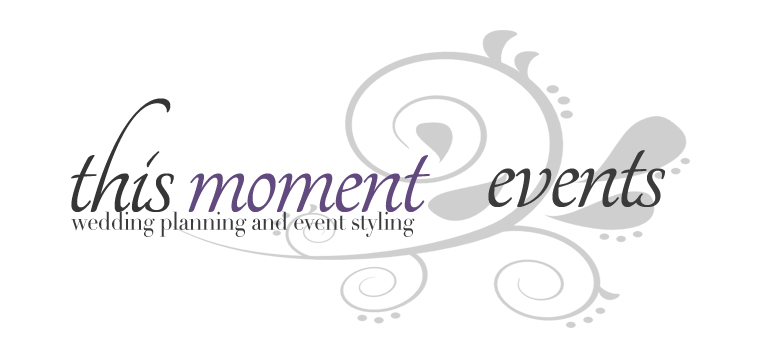
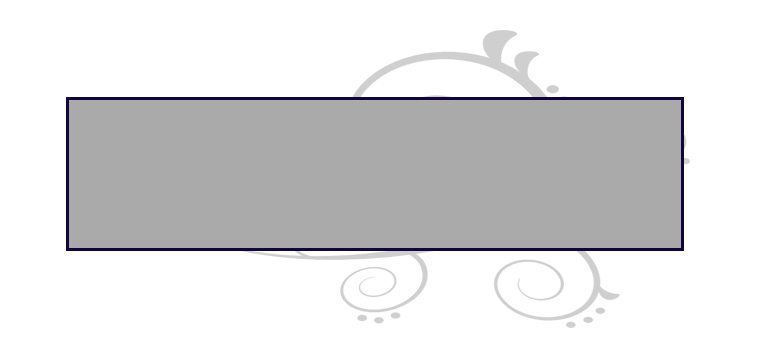
clear data

diff --git a/index.html b/index.html
@@ -337,7 +337,7 @@
   </tr>
 
   <tr>
-    <td class="bold">Jasmine Cianflone</td>
+    <td class="bold">XXXX XXXXX</td>
   </tr>
 
   <tr>
@@ -353,7 +353,7 @@
   </tr>
 
   <tr>
-    <td>jasmine@thismomentevents.com</td>
+    <td>XXXX@XXXXXXX.com</td>
   </tr>
 </tbody></table>
 <!-- HEADER INFORMATION to and from-->
@@ -363,7 +363,7 @@
       <span>Bill To:</span>
     </td>
     <td class="border-bottom bold">
-      <span>Joane Jasmin</span>
+      <span>XXX XXX</span>
     </td>
   </tr>
 
@@ -371,7 +371,7 @@
     <td class="border-bottom">
     </td>
     <td class="border-bottom">
-      <span>joane.jasmin87@gmail.com</span>
+      <span>XXX@gmail.com</span>
     </td>
   </tr>
   <tr>
@@ -379,7 +379,7 @@
       <span class="bold">Event:</span>
     </td>
     <td class="border-bottom">
-      <span class="bold">Joane Jasmin and David Lisma</span>
+      <span class="bold">Event Name</span>
     </td>
   </tr>
   <tr>
@@ -430,7 +430,7 @@
 <table class="pad-top ">
   <tbody><tr>
     <td class="main-file-title">
-      <h1 class="uppercase">Joane and David - Bespoke </h1>
+      <h1 class="uppercase">XXXXXXXXXXXXXXXXXXXXXXXX </h1>
     </td>
   </tr>
 </tbody></table>
@@ -455,7 +455,7 @@
 
       <tr>
         <td>Every Bliss Bespoke Day of Coordination Suite includes the following:
-Unlimited email + phone contact with Jasmine starting 8 weeks prior to your event date.
+Unlimited email + phone contact with XXX starting 8 weeks prior to your event date.
 Three planning meetings: Kickoff meeting, 8 Week Check-in, and Final Details meeting- in person
 4 Week Check-in Call.
 Access to our awesome online planning tools (Eliminates email clutter and keeps us all on track!). 
@@ -695,11 +695,11 @@ All in all, that gets you: A nice bundle of tied up loose ends, loads of peace o
       <tr class="">
         <td><div class="editor_header_region" contenteditable="false" id="editor_header_region">
             <ul class="header-info">
-              <li class="bold">Jasmine Cianflone</li>
-              <li>This Moment Events</li>
+              <li class="bold">XXX XXXX</li>
+              <li>XXX Events</li>
               <li>Event Planner</li>
               <li></li>
-              <li>jasmine@thismomentevents.com</li>
+              <li>XXX@XXX.com</li>
             </ul>
             <span class="half-a float-right">
                 <span class="">
@@ -711,7 +711,7 @@ All in all, that gets you: A nice bundle of tied up loose ends, loads of peace o
 
 <p style="text-align: center;">&nbsp;</p>
 
-<p>This Wedding Planning Service Agreement (herein the “Agreement”) is made the&nbsp;<u>Apr 25, 2015</u>&nbsp;by and between This Moment Events, LLC a New Jersey limited liability company (herein “Consultant”) and&nbsp;<u>Joane Jasmin</u> and<u>David Lisma</u>&nbsp;(herein jointly and severally referred to as “Clients,” and together with Consultant, the “Parties” and each a “Party”).</p>
+<p>This Wedding Planning Service Agreement (herein the “Agreement”) is made the&nbsp;<u>Apr 25, 2015</u>&nbsp;by and between This Moment Events, LLC a New Jersey limited liability company (herein “Consultant”) and&nbsp;<u>XXX XXXX</u> and<u>XXX XXXX</u>&nbsp;(herein jointly and severally referred to as “Clients,” and together with Consultant, the “Parties” and each a “Party”).</p>
 
 <p>WHEREAS Consultant is in the business of providing professional wedding planning, coordination and event styling services;</p>
 
@@ -747,7 +747,7 @@ Time:&nbsp;<u>12:30pm</u></p>
 	<li>This service suite includes the services of Consultant and Assistants for <u>Eight (8)</u> hours.&nbsp; Should need for additional hours become evident or requested on the day of the Wedding, Client shall be responsible for the additional cost of overtime hours, charged at the rate of one hundred and twenty five dollars ($125.00) per hour for the Consultant and fifty dollars ($50.00) per hour per Assistant.</li>
 </ul>
 
-<div class="editor_packages_region" contenteditable="false" id="editor_packages_region"><h3>Bespoke Bliss Day-of-Coordination</h3><strong>Every Bliss Bespoke Day of Coordination Suite includes the following:<br>Unlimited email + phone contact with Jasmine starting 8 weeks prior to your event date.<br>Three planning meetings: Kickoff meeting, 8 Week Check-in, and Final Details meeting- in person<br>4 Week Check-in Call.<br>Access to our awesome online planning tools (Eliminates email clutter and keeps us all on track!). <br>A dedicated day of planner and a minimum of one planner assistant.<br>Comprehensive Wedding Day Management.  <br>All in all, that gets you: A nice bundle of tied up loose ends, loads of peace of mind, and the best time you’ve ever had!</strong><ul></ul><ul><li><h3>8 Hours - Day of Management with with 2 Assistants</h3><span>For a guest count of approx. 170, single venue.</span></li></ul><h3>Paisley Wedding Planning Sessions</h3><strong>45 Minute planning sessions via phone, Skype or Facetime. Answer planning questions, provide guidance, advice and resources.</strong><ul></ul><ul><li><h3>6 Session Bundle</h3></li></ul><h3>Design &amp; Styling - Comprehensive </h3><strong>Top to bottom DIY design &amp; styling- research, sourcing, concept development, inspiration boards, color stories (digital or tangible), arrangement of execution, including vendor research, oversight of set up and tear down.</strong><ul></ul><ul><li><h3>Add On to Bespoke Bliss DOC</h3></li></ul><h3>Add On to Bespoke DOC </h3><ul></ul><ul><li><h3>Planning &amp; Coordination, Hourly - 5 Hours</h3><span>Hourly planning &amp; Coordination - tasks determined as needed. Used to research vendors, venues, and styling ideas, and coordinate additional wedding details.</span></li></ul><ul></ul></div>
+<div class="editor_packages_region" contenteditable="false" id="editor_packages_region"><h3>Bespoke Bliss Day-of-Coordination</h3><strong>Every Bliss Bespoke Day of Coordination Suite includes the following:<br>Unlimited email + phone contact with XXX starting 8 weeks prior to your event date.<br>Three planning meetings: Kickoff meeting, 8 Week Check-in, and Final Details meeting- in person<br>4 Week Check-in Call.<br>Access to our awesome online planning tools (Eliminates email clutter and keeps us all on track!). <br>A dedicated day of planner and a minimum of one planner assistant.<br>Comprehensive Wedding Day Management.  <br>All in all, that gets you: A nice bundle of tied up loose ends, loads of peace of mind, and the best time you’ve ever had!</strong><ul></ul><ul><li><h3>8 Hours - Day of Management with with 2 Assistants</h3><span>For a guest count of approx. 170, single venue.</span></li></ul><h3>Paisley Wedding Planning Sessions</h3><strong>45 Minute planning sessions via phone, Skype or Facetime. Answer planning questions, provide guidance, advice and resources.</strong><ul></ul><ul><li><h3>6 Session Bundle</h3></li></ul><h3>Design &amp; Styling - Comprehensive </h3><strong>Top to bottom DIY design &amp; styling- research, sourcing, concept development, inspiration boards, color stories (digital or tangible), arrangement of execution, including vendor research, oversight of set up and tear down.</strong><ul></ul><ul><li><h3>Add On to Bespoke Bliss DOC</h3></li></ul><h3>Add On to Bespoke DOC </h3><ul></ul><ul><li><h3>Planning &amp; Coordination, Hourly - 5 Hours</h3><span>Hourly planning &amp; Coordination - tasks determined as needed. Used to research vendors, venues, and styling ideas, and coordinate additional wedding details.</span></li></ul><ul></ul></div>
 
 <p><br>
 OR FOR DESIGN ONLY Consultant will provide Clients with the services (the “Services”) described in the attached addendum, which is made a part of this Agreement and incorporated by reference.</p>
@@ -792,11 +792,11 @@ OR FOR DESIGN ONLY Consultant will provide Clients with the services (the “Ser
 
 <p><span style="font-family:inherit; font-size:13px; line-height:1.6">All payments are non-refundable once tendered.&nbsp; Payments not postmarked or received by Consultant by the due date shall incur a late fee equal to five dollars ($5.00) per day.&nbsp; Clients shall pay any attorneys’ fees, court costs, or other costs incurred in collection of delinquent accounts.&nbsp; Note that services and coordination prior to, or on the Wedding day, shall cease until any balance more than five (5) days past due is paid in full.&nbsp; After any payment is ten (10) days past due, Consultant shall be entitled to terminate this Agreement immediately, and shall retain the Retainer Fee and any payments already tendered by Clients.&nbsp; If this Agreement is signed less than sixty (60) days from the Wedding date, payment in full shall be due upon the signing of this Agreement and all payments shall be non-refundable.</span>Both this signed Agreement and the Retainer Fee must be received in order to book Consultant for Clients’ Wedding.&nbsp; This Agreement is an offer that must be accepted by Clients within seven (7) days, by returning the signed Agreement and paying the Retainer Fee, or said offer shall expire.&nbsp;</p>
 
-<p>Payments shall be made by cash, check, or Visa, MasterCard, American Express or Discover.&nbsp; Checks shall be made payable to This Moment Events, LLC and mailed to:</p>
+<p>Payments shall be made by cash, check, or Visa, MasterCard, American Express or Discover.&nbsp; Checks shall be made payable to XXX Events, LLC and mailed to:</p>
 
-<p>269 Bolton Road</p>
+<p>269 XXX Road</p>
 
-<p>East Windsor, NJ 08520</p>
+<p>East XXX, NJ XXX</p>
 
 <p>Returned checks shall be subject to a forty dollar ($40.00) fee and any subsequent payments must be made via cash, cashier’s check or money order.</p>
 
@@ -940,11 +940,11 @@ OR FOR DESIGN ONLY Consultant will provide Clients with the services (the “Ser
 			<td style="width:199px;">
 			<p>If to Consultant:</p>
 
-			<p>This Moment Events, LLC</p>
+			<p>XXX Events, LLC</p>
 
-			<p>269 Bolton Road</p>
+			<p>269 XXX Road</p>
 
-			<p>East Windsor, NJ 08520</p>
+			<p>East XXX, NJ XXX</p>
 			</td>
 			<td style="width:1241px;">
 			<p>If to Clients:</p>
@@ -982,7 +982,7 @@ OR FOR DESIGN ONLY Consultant will provide Clients with the services (the “Ser
 
     <table class="signatures">
           <tbody><tr valign="bottom" class="trSign">
-            <td><div class="sign">Jasmine E. Cianflone</div></td>
+            <td><div class="sign">XXX XXXX</div></td>
             <td><div class="sign"> <form id="552db830c7cd77a7e0000039">
 
               <div class="sig sigWrapper">
@@ -994,12 +994,12 @@ OR FOR DESIGN ONLY Consultant will provide Clients with the services (the “Ser
             </form></div></td>
           </tr>
           <tr valign="bottom">
-            <td><div>Jasmine Cianflone, This Moment Events</div></td>
+            <td><div>XXX XXXX, XXXX Events</div></td>
             <td><div>Apr 25, 2015</div></td>
           </tr>
 
           <tr valign="bottom" class="trSign">
-            <td><div class="sign">Joane Jasmin</div></td>
+            <td><div class="sign">XXX XXXX</div></td>
             <td><div class="sign"> <form id="552db830c7cd77a7e000003a">
 
               <div class="sig sigWrapper">
